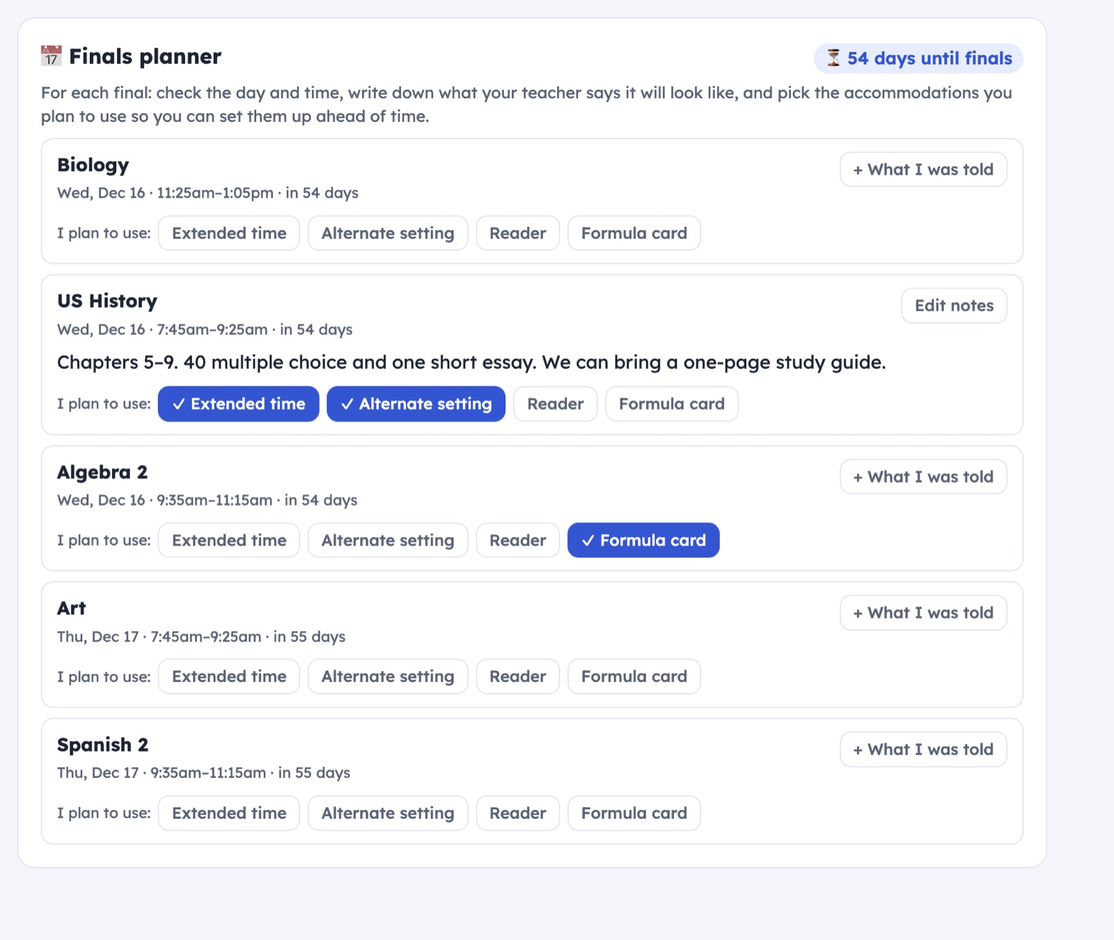
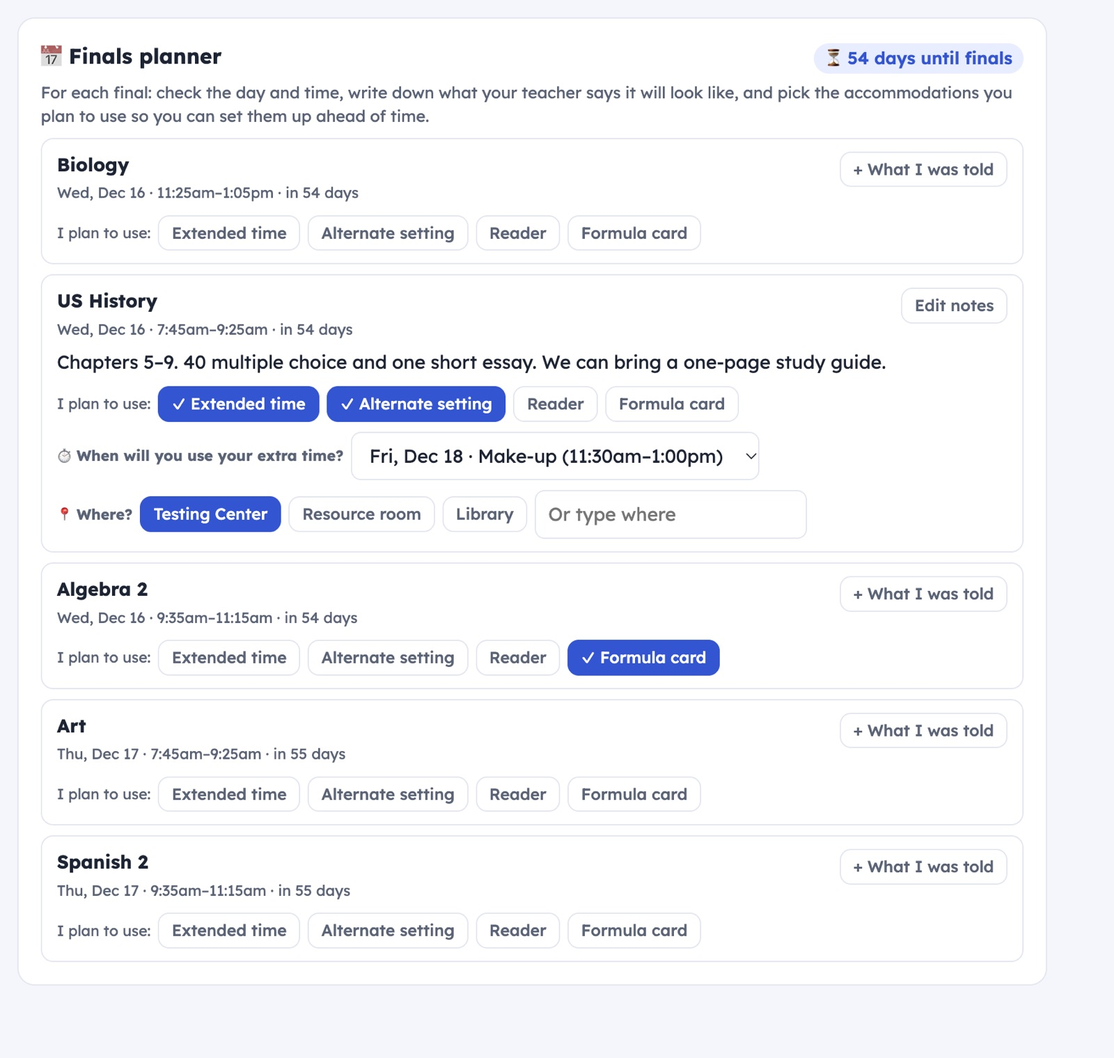
Resource Check-In showcase: Helping the teacher stay organized (test tracking, compiled finals accommodations); demo 1.92

diff --git a/resource/demo.html b/resource/demo.html
@@ -429,7 +429,7 @@ tr.lowrow td { background: var(--chip); border-bottom: 1px solid var(--line); }
    plan how they'll use resource time, and list upcoming tests. The teacher sees everyone.
    A Google Sheet + Apps Script web app. How to set it up: SETUP.md. */
 
-var VERSION = '1.91';
+var VERSION = '1.92';
 
 // Data tabs and their columns. Dates are stored as text (yyyy-mm-dd).
 var TABS = {
@@ -478,7 +478,7 @@ var TABS = {
   'Self-report checks': ['Week of', 'Email', 'Class', 'Said missing', 'Found missing (pasted page)', 'Checked', 'Match'],
   // the grade each student wants to finish the semester with, per class; and what each class said the final exam will be like
   'Grade goals': ['Email', 'Semester', 'Class', 'Goal (%)', 'Updated', 'Reason for the change'],
-  'Final exams': ['Email', 'Semester', 'Class', 'Exam date', 'What it will look like', 'Updated', 'Accommodations I plan to use'],
+  'Final exams': ['Email', 'Semester', 'Class', 'Exam date', 'What it will look like', 'Updated', 'Accommodations I plan to use', 'Extended time: when', 'Alternate setting: where'],
   // the school's final exam schedule (change it each semester): which period's final is when
   'Final exam schedule': ['Date', 'Start', 'End', 'Period (or Make-up)'],
   // the school year (change it each year): days with no school, finals days, and the first and last day; the grade check day moves around them
@@ -3409,18 +3409,24 @@ function goalHist_(email) {
 }
 // Student: what a class said the final exam will look like (and when). Blank text and date removes it.
 // accoms: the accommodations they plan to use on this final (from their list). All blank removes it.
-function api_saveFinal(cls, date, text, accoms) {
+// x (1.92): { when, where } for extended time (which final exam period) and an alternate setting (where); left out = keep what was saved
+var FIN_EXT = /extended|extra time/i, FIN_ALT = /alternat|separate setting|location/i;
+function api_saveFinal(cls, date, text, accoms, x) {
   var email = need_(), sem = semStart_(); cls = clean_(cls, 60); text = clean_(text, 1500);
   date = /^\d{4}-\d\d-\d\d$/.test(String(date)) ? date : '';
-  var acc = (accoms || []).slice(0, 10).map(function (a) { return clean_(a, 60); }).filter(String).join('; ');
+  var list = (accoms || []).slice(0, 10).map(function (a) { return clean_(a, 60); }).filter(String), acc = list.join('; ');
   return locked_(function () {
-    rewrite_('Final exams', function (r) { return !(low_(r[0]) === email && day_(r[1]) === sem && String(r[2]) === cls); }, text || date || acc ? [[email, sem, cls, date, text, stamp_(), acc]] : []);
+    var old = rows_('Final exams').filter(function (r) { return low_(r[0]) === email && day_(r[1]) === sem && String(r[2]) === cls; })[0] || [];
+    var when = x && x.when !== undefined ? clean_(x.when, 120) : String(old[7] || ''), where = x && x.where !== undefined ? clean_(x.where, 120) : String(old[8] || '');
+    if (!list.some(function (a) { return FIN_EXT.test(a); })) when = '';          // only with extended time / an alternate setting chosen
+    if (!list.some(function (a) { return FIN_ALT.test(a); })) where = '';
+    rewrite_('Final exams', function (r) { return !(low_(r[0]) === email && day_(r[1]) === sem && String(r[2]) === cls); }, text || date || acc ? [[email, sem, cls, date, text, stamp_(), acc, when, where]] : []);
     return finals_(email);
   });
 }
 function finals_(email) {
   var sem = semStart_(), o = {};
-  rows_('Final exams').forEach(function (r) { if (low_(r[0]) === email && day_(r[1]) === sem) o[String(r[2])] = { date: day_(r[3]), text: String(r[4] || ''), updated: String(r[5] || ''), accoms: String(r[6] || '').split('; ').filter(String) }; });
+  rows_('Final exams').forEach(function (r) { if (low_(r[0]) === email && day_(r[1]) === sem) o[String(r[2])] = { date: day_(r[3]), text: String(r[4] || ''), updated: String(r[5] || ''), accoms: String(r[6] || '').split('; ').filter(String), when: String(r[7] || ''), where: String(r[8] || '') }; });
   return o;
 }
 // Teacher: every student's final with accommodations planned, in exam order (for testing rooms and extended time).
@@ -3430,7 +3436,7 @@ function finalsAccoms_(names) {
   rows_('Final exams').forEach(function (r) {
     if (day_(r[1]) !== sem || !String(r[6] || '')) return;
     var e = low_(r[0]), cls = String(r[2]), p = per[e + '|' + cls] || '', slot = finalSlot_(p, sched);
-    out.push({ email: e, name: names[e] || e, cls: cls, period: p, date: (slot && slot.date) || day_(r[3]), start: slot ? slot.start : '', end: slot ? slot.end : '', accoms: String(r[6]).split('; ').filter(String) });
+    out.push({ email: e, name: names[e] || e, cls: cls, period: p, date: (slot && slot.date) || day_(r[3]), start: slot ? slot.start : '', end: slot ? slot.end : '', accoms: String(r[6]).split('; ').filter(String), when: String(r[7] || ''), where: String(r[8] || '') });
   });
   return out.sort(function (a, b) { return (a.date || '9') + a.start < (b.date || '9') + b.start ? -1 : 1; });
 }
@@ -3943,7 +3949,7 @@ function weekOf_(s) { var p = s.split('-'), dow = new Date(Date.UTC(+p[0], +p[1]
     g.setUser('ort123456@d204.lths.net');
     api_saveDayPlan('Finish the Ch. 6 worksheet for US History, then make flashcards for Thursday’s test');
     api_saveGradeGoals({ 'US History': 70, 'Algebra 2': 80, Biology: 80, 'Spanish 2': 90 });
-    api_saveFinal('US History', '', 'Chapters 5–9. 40 multiple choice and one short essay. We can bring a one-page study guide.', ['Extended time', 'Alternate setting']);
+    api_saveFinal('US History', '', 'Chapters 5–9. 40 multiple choice and one short essay. We can bring a one-page study guide.', ['Extended time', 'Alternate setting'], { when: 'Fri, Dec 18 · Make-up (11:30am–1:00pm)', where: 'Testing Center' });
     api_saveFinal('Algebra 2', '', '', ['Formula card']);
     g.setUser('smi513421@d204.lths.net');
     api_saveDayPlan('Study for the Geometry Unit 3 test');
@@ -4919,8 +4925,25 @@ function finalsCard() {
         '<button class="btn small" onclick="FIN_EDIT=' + x.k + ';drawCheckin()">' + (f.text ? 'Edit notes' : '+ What I was told') + '</button></div>' +
         (f.text ? '<p style="margin:6px 0 0;white-space:pre-wrap">' + esc(f.text) + '</p>' : '') +
         (accs.length ? '<div class="row" style="gap:6px;margin-top:8px;align-items:center"><span class="small" style="display:inline">I plan to use:</span>' + accs.map(function (a, ai) {
-          var on = f.accoms.indexOf(a) >= 0; return '<button class="btn small' + (on ? ' primary' : '') + '" onclick="finAcc(' + x.k + ',' + ai + ')">' + (on ? '✓ ' : '') + esc(a) + '</button>'; }).join('') + '</div>' : '') + '</div>';
+          var on = f.accoms.indexOf(a) >= 0; return '<button class="btn small' + (on ? ' primary' : '') + '" onclick="finAcc(' + x.k + ',' + ai + ')">' + (on ? '✓ ' : '') + esc(a) + '</button>'; }).join('') + '</div>' : '') + finExtras(x.k, f) + '</div>';
     }).join('') + '</div>';
+}
+// 1.92: extended time asks WHEN (the final exam periods), an alternate setting asks WHERE
+var FIN_EXT = /extended|extra time/i, FIN_ALT = /alternat|separate setting|location/i, FIN_WHERE = ['Testing Center', 'Resource room', 'Library'];
+function finWhenOpts() { return (B.finalSched || []).map(function (s) { return fmtDay(s.date) + ' · ' + (/^\d/.test(s.period) ? 'Period ' + s.period : s.period) + ' (' + s.start + '–' + s.end + ')'; }).concat(['Right after the exam, the same day', 'Not sure yet']); }
+function finExtras(k, f) {
+  var h = '';
+  if (f.accoms.some(function (a) { return FIN_EXT.test(a); })) h += '<div class="row" style="gap:6px;margin-top:8px;align-items:center"><span class="small" style="display:inline"><b>⏱ When will you use your extra time?</b></span><select style="max-width:330px" onchange="finExtra(' + k + ',\'when\',this.value)"><option value="">Pick a time</option>' +
+    finWhenOpts().map(function (o) { return '<option' + (o === f.when ? ' selected' : '') + '>' + esc(o) + '</option>'; }).join('') + (f.when && finWhenOpts().indexOf(f.when) < 0 ? '<option selected>' + esc(f.when) + '</option>' : '') + '</select></div>';
+  if (f.accoms.some(function (a) { return FIN_ALT.test(a); })) h += '<div class="row" style="gap:6px;margin-top:8px;align-items:center"><span class="small" style="display:inline"><b>📍 Where?</b></span>' +
+    FIN_WHERE.map(function (w) { return '<button class="btn small' + (f.where === w ? ' primary' : '') + '" onclick="finExtra(' + k + ',\'where\',\'' + w + '\')">' + w + '</button>'; }).join('') +
+    '<input type="text" maxlength="120" style="max-width:220px" placeholder="Or type where" value="' + esc(FIN_WHERE.indexOf(f.where) < 0 ? f.where || '' : '') + '" onchange="finExtra(' + k + ',\'where\',this.value.trim())"></div>';
+  return h;
+}
+function finExtra(k, field, v) {
+  var c = graded()[k], f = (D.finals || {})[c.name] || { date: '', text: '', accoms: [] }, x = { when: f.when || '', where: f.where || '' };
+  x[field] = v; f[field] = v; D.finals[c.name] = f; drawCheckin();
+  call('api_saveFinal', c.name, f.date, f.text, f.accoms, x).then(function (r) { D.finals = r; toast('Saved'); }).catch(oops);
 }
 function finSave(k) {
   var c = graded()[k], f = (D.finals || {})[c.name] || { accoms: [] };
@@ -6127,12 +6150,27 @@ function drawUpcoming() {
   }).join('') + '</tbody></table>' : '<div class="empty">No tests listed for the next two weeks.</div>';
   h += '</div>';
   var fa = TD.finalsAccoms || [];
-  if (fa.length) h += '<h2 style="margin-top:20px">Finals: accommodations students plan to use</h2><p class="sub">From each student’s Finals planner, in exam order. Use it to set up testing rooms and extended time.</p><div class="card"><table><thead><tr><th>When</th><th>Student</th><th>Class</th><th>Accommodations</th></tr></thead><tbody>' + fa.map(function (x) {
-    return '<tr class="click" onclick="openStudent(\'' + esc(x.email) + '\')"><td>' + (x.date ? fmtDay(x.date) : '—') + (x.start ? '<small>' + esc(x.start + '–' + x.end) + (x.period ? ' · period ' + esc(x.period) : '') + '</small>' : '') + '</td><td><div class="person">' + avatar(x.email, x.name) + '<b>' + esc(x.name) + '</b></div></td><td>' + esc(x.cls) + '</td><td>' + esc(x.accoms.join(', ')) + '</td></tr>';
-  }).join('') + '</tbody></table></div>';
+  if (fa.length) h += '<div class="row" style="margin-top:20px"><h2 class="grow" style="margin:0">Finals: accommodations students plan to use</h2><div class="seg">' + [['time', 'By exam time'], ['student', 'By student']].map(function (o) { return '<button class="' + (FA_BY === o[0] ? 'on' : '') + '" onclick="FA_BY=\'' + o[0] + '\';drawUpcoming()">' + o[1] + '</button>'; }).join('') + '</div><button class="btn small" onclick="faPrint()">🖨 Print this list</button></div>' +
+    '<p class="sub">From each student’s Finals planner. When they’ll use extended time, and where for an alternate setting.</p><div class="card">' + faTable(fa, true) + '</div>';
   $('main').innerHTML = h;
 }
 
+// the compiled finals accommodations list: by exam time (setting up rooms) or by student; printable (1.92)
+var FA_BY = 'time';
+function faRows(fa) { var l = fa.slice(); if (FA_BY === 'student') l.sort(function (a, b) { return a.name.localeCompare(b.name) || ((a.date || '9') + a.start < (b.date || '9') + b.start ? -1 : 1); }); return l; }
+function faTable(fa, click) {
+  return '<table><thead><tr>' + (FA_BY === 'student' ? '<th>Student</th><th>Final</th>' : '<th>Final</th><th>Student</th>') + '<th>Class</th><th>Accommodations</th><th>Extended time: when</th><th>Alternate setting: where</th></tr></thead><tbody>' + faRows(fa).map(function (x) {
+    var fin = (x.date ? fmtDay(x.date) : '—') + (x.start ? '<small>' + esc(x.start + '–' + x.end) + (x.period ? ' · period ' + esc(x.period) : '') + '</small>' : '');
+    var who = click ? '<div class="person">' + avatar(x.email, x.name) + '<b>' + esc(x.name) + '</b></div>' : '<b>' + esc(x.name) + '</b>';
+    return '<tr' + (click ? ' class="click" onclick="openStudent(\'' + esc(x.email) + '\')"' : '') + '>' + (FA_BY === 'student' ? '<td>' + who + '</td><td>' + fin + '</td>' : '<td>' + fin + '</td><td>' + who + '</td>') +
+      '<td>' + esc(x.cls) + '</td><td>' + esc(x.accoms.join(', ')) + '</td><td>' + (x.when ? esc(x.when) : x.accoms.some(function (a) { return FIN_EXT.test(a); }) ? '<span class="small" style="color:var(--warn)">not picked yet</span>' : '') + '</td><td>' + (x.where ? esc(x.where) : x.accoms.some(function (a) { return FIN_ALT.test(a); }) ? '<span class="small" style="color:var(--warn)">not picked yet</span>' : '') + '</td></tr>';
+  }).join('') + '</tbody></table>';
+}
+function faPrint() {
+  var w = printOpen();
+  printShow(w, '<h2 style="margin:0 0 4px">Final exams: accommodations students plan to use</h2><p style="margin:0 0 12px;color:#5b6476;font-size:13px">' + (FA_BY === 'student' ? 'By student' : 'By exam time') + ' · printed ' + fmtDay(B.today) + '</p>' +
+    '<style>table{border-collapse:collapse;width:100%;font-size:13px}th,td{border:1px solid #d9dee8;padding:6px 8px;text-align:left;vertical-align:top}th{background:#f1f4fa}small{display:block;color:#5b6476}</style>' + faTable(TD.finalsAccoms || [], false), 'Finals accommodations');
+}
 /* ---------- teacher: the app's Settings page (each teacher decides what students do and see) ---------- */
 var SETS = null, SET_CHG = {};
 var SET_LABELS = {

diff --git a/resource/practice.html b/resource/practice.html
@@ -429,7 +429,7 @@ tr.lowrow td { background: var(--chip); border-bottom: 1px solid var(--line); }
    plan how they'll use resource time, and list upcoming tests. The teacher sees everyone.
    A Google Sheet + Apps Script web app. How to set it up: SETUP.md. */
 
-var VERSION = '1.91';
+var VERSION = '1.92';
 
 // Data tabs and their columns. Dates are stored as text (yyyy-mm-dd).
 var TABS = {
@@ -478,7 +478,7 @@ var TABS = {
   'Self-report checks': ['Week of', 'Email', 'Class', 'Said missing', 'Found missing (pasted page)', 'Checked', 'Match'],
   // the grade each student wants to finish the semester with, per class; and what each class said the final exam will be like
   'Grade goals': ['Email', 'Semester', 'Class', 'Goal (%)', 'Updated', 'Reason for the change'],
-  'Final exams': ['Email', 'Semester', 'Class', 'Exam date', 'What it will look like', 'Updated', 'Accommodations I plan to use'],
+  'Final exams': ['Email', 'Semester', 'Class', 'Exam date', 'What it will look like', 'Updated', 'Accommodations I plan to use', 'Extended time: when', 'Alternate setting: where'],
   // the school's final exam schedule (change it each semester): which period's final is when
   'Final exam schedule': ['Date', 'Start', 'End', 'Period (or Make-up)'],
   // the school year (change it each year): days with no school, finals days, and the first and last day; the grade check day moves around them
@@ -3409,18 +3409,24 @@ function goalHist_(email) {
 }
 // Student: what a class said the final exam will look like (and when). Blank text and date removes it.
 // accoms: the accommodations they plan to use on this final (from their list). All blank removes it.
-function api_saveFinal(cls, date, text, accoms) {
+// x (1.92): { when, where } for extended time (which final exam period) and an alternate setting (where); left out = keep what was saved
+var FIN_EXT = /extended|extra time/i, FIN_ALT = /alternat|separate setting|location/i;
+function api_saveFinal(cls, date, text, accoms, x) {
   var email = need_(), sem = semStart_(); cls = clean_(cls, 60); text = clean_(text, 1500);
   date = /^\d{4}-\d\d-\d\d$/.test(String(date)) ? date : '';
-  var acc = (accoms || []).slice(0, 10).map(function (a) { return clean_(a, 60); }).filter(String).join('; ');
+  var list = (accoms || []).slice(0, 10).map(function (a) { return clean_(a, 60); }).filter(String), acc = list.join('; ');
   return locked_(function () {
-    rewrite_('Final exams', function (r) { return !(low_(r[0]) === email && day_(r[1]) === sem && String(r[2]) === cls); }, text || date || acc ? [[email, sem, cls, date, text, stamp_(), acc]] : []);
+    var old = rows_('Final exams').filter(function (r) { return low_(r[0]) === email && day_(r[1]) === sem && String(r[2]) === cls; })[0] || [];
+    var when = x && x.when !== undefined ? clean_(x.when, 120) : String(old[7] || ''), where = x && x.where !== undefined ? clean_(x.where, 120) : String(old[8] || '');
+    if (!list.some(function (a) { return FIN_EXT.test(a); })) when = '';          // only with extended time / an alternate setting chosen
+    if (!list.some(function (a) { return FIN_ALT.test(a); })) where = '';
+    rewrite_('Final exams', function (r) { return !(low_(r[0]) === email && day_(r[1]) === sem && String(r[2]) === cls); }, text || date || acc ? [[email, sem, cls, date, text, stamp_(), acc, when, where]] : []);
     return finals_(email);
   });
 }
 function finals_(email) {
   var sem = semStart_(), o = {};
-  rows_('Final exams').forEach(function (r) { if (low_(r[0]) === email && day_(r[1]) === sem) o[String(r[2])] = { date: day_(r[3]), text: String(r[4] || ''), updated: String(r[5] || ''), accoms: String(r[6] || '').split('; ').filter(String) }; });
+  rows_('Final exams').forEach(function (r) { if (low_(r[0]) === email && day_(r[1]) === sem) o[String(r[2])] = { date: day_(r[3]), text: String(r[4] || ''), updated: String(r[5] || ''), accoms: String(r[6] || '').split('; ').filter(String), when: String(r[7] || ''), where: String(r[8] || '') }; });
   return o;
 }
 // Teacher: every student's final with accommodations planned, in exam order (for testing rooms and extended time).
@@ -3430,7 +3436,7 @@ function finalsAccoms_(names) {
   rows_('Final exams').forEach(function (r) {
     if (day_(r[1]) !== sem || !String(r[6] || '')) return;
     var e = low_(r[0]), cls = String(r[2]), p = per[e + '|' + cls] || '', slot = finalSlot_(p, sched);
-    out.push({ email: e, name: names[e] || e, cls: cls, period: p, date: (slot && slot.date) || day_(r[3]), start: slot ? slot.start : '', end: slot ? slot.end : '', accoms: String(r[6]).split('; ').filter(String) });
+    out.push({ email: e, name: names[e] || e, cls: cls, period: p, date: (slot && slot.date) || day_(r[3]), start: slot ? slot.start : '', end: slot ? slot.end : '', accoms: String(r[6]).split('; ').filter(String), when: String(r[7] || ''), where: String(r[8] || '') });
   });
   return out.sort(function (a, b) { return (a.date || '9') + a.start < (b.date || '9') + b.start ? -1 : 1; });
 }
@@ -3943,7 +3949,7 @@ function weekOf_(s) { var p = s.split('-'), dow = new Date(Date.UTC(+p[0], +p[1]
     g.setUser('ort123456@d204.lths.net');
     api_saveDayPlan('Finish the Ch. 6 worksheet for US History, then make flashcards for Thursday’s test');
     api_saveGradeGoals({ 'US History': 70, 'Algebra 2': 80, Biology: 80, 'Spanish 2': 90 });
-    api_saveFinal('US History', '', 'Chapters 5–9. 40 multiple choice and one short essay. We can bring a one-page study guide.', ['Extended time', 'Alternate setting']);
+    api_saveFinal('US History', '', 'Chapters 5–9. 40 multiple choice and one short essay. We can bring a one-page study guide.', ['Extended time', 'Alternate setting'], { when: 'Fri, Dec 18 · Make-up (11:30am–1:00pm)', where: 'Testing Center' });
     api_saveFinal('Algebra 2', '', '', ['Formula card']);
     g.setUser('smi513421@d204.lths.net');
     api_saveDayPlan('Study for the Geometry Unit 3 test');
@@ -4919,8 +4925,25 @@ function finalsCard() {
         '<button class="btn small" onclick="FIN_EDIT=' + x.k + ';drawCheckin()">' + (f.text ? 'Edit notes' : '+ What I was told') + '</button></div>' +
         (f.text ? '<p style="margin:6px 0 0;white-space:pre-wrap">' + esc(f.text) + '</p>' : '') +
         (accs.length ? '<div class="row" style="gap:6px;margin-top:8px;align-items:center"><span class="small" style="display:inline">I plan to use:</span>' + accs.map(function (a, ai) {
-          var on = f.accoms.indexOf(a) >= 0; return '<button class="btn small' + (on ? ' primary' : '') + '" onclick="finAcc(' + x.k + ',' + ai + ')">' + (on ? '✓ ' : '') + esc(a) + '</button>'; }).join('') + '</div>' : '') + '</div>';
+          var on = f.accoms.indexOf(a) >= 0; return '<button class="btn small' + (on ? ' primary' : '') + '" onclick="finAcc(' + x.k + ',' + ai + ')">' + (on ? '✓ ' : '') + esc(a) + '</button>'; }).join('') + '</div>' : '') + finExtras(x.k, f) + '</div>';
     }).join('') + '</div>';
+}
+// 1.92: extended time asks WHEN (the final exam periods), an alternate setting asks WHERE
+var FIN_EXT = /extended|extra time/i, FIN_ALT = /alternat|separate setting|location/i, FIN_WHERE = ['Testing Center', 'Resource room', 'Library'];
+function finWhenOpts() { return (B.finalSched || []).map(function (s) { return fmtDay(s.date) + ' · ' + (/^\d/.test(s.period) ? 'Period ' + s.period : s.period) + ' (' + s.start + '–' + s.end + ')'; }).concat(['Right after the exam, the same day', 'Not sure yet']); }
+function finExtras(k, f) {
+  var h = '';
+  if (f.accoms.some(function (a) { return FIN_EXT.test(a); })) h += '<div class="row" style="gap:6px;margin-top:8px;align-items:center"><span class="small" style="display:inline"><b>⏱ When will you use your extra time?</b></span><select style="max-width:330px" onchange="finExtra(' + k + ',\'when\',this.value)"><option value="">Pick a time</option>' +
+    finWhenOpts().map(function (o) { return '<option' + (o === f.when ? ' selected' : '') + '>' + esc(o) + '</option>'; }).join('') + (f.when && finWhenOpts().indexOf(f.when) < 0 ? '<option selected>' + esc(f.when) + '</option>' : '') + '</select></div>';
+  if (f.accoms.some(function (a) { return FIN_ALT.test(a); })) h += '<div class="row" style="gap:6px;margin-top:8px;align-items:center"><span class="small" style="display:inline"><b>📍 Where?</b></span>' +
+    FIN_WHERE.map(function (w) { return '<button class="btn small' + (f.where === w ? ' primary' : '') + '" onclick="finExtra(' + k + ',\'where\',\'' + w + '\')">' + w + '</button>'; }).join('') +
+    '<input type="text" maxlength="120" style="max-width:220px" placeholder="Or type where" value="' + esc(FIN_WHERE.indexOf(f.where) < 0 ? f.where || '' : '') + '" onchange="finExtra(' + k + ',\'where\',this.value.trim())"></div>';
+  return h;
+}
+function finExtra(k, field, v) {
+  var c = graded()[k], f = (D.finals || {})[c.name] || { date: '', text: '', accoms: [] }, x = { when: f.when || '', where: f.where || '' };
+  x[field] = v; f[field] = v; D.finals[c.name] = f; drawCheckin();
+  call('api_saveFinal', c.name, f.date, f.text, f.accoms, x).then(function (r) { D.finals = r; toast('Saved'); }).catch(oops);
 }
 function finSave(k) {
   var c = graded()[k], f = (D.finals || {})[c.name] || { accoms: [] };
@@ -6127,12 +6150,27 @@ function drawUpcoming() {
   }).join('') + '</tbody></table>' : '<div class="empty">No tests listed for the next two weeks.</div>';
   h += '</div>';
   var fa = TD.finalsAccoms || [];
-  if (fa.length) h += '<h2 style="margin-top:20px">Finals: accommodations students plan to use</h2><p class="sub">From each student’s Finals planner, in exam order. Use it to set up testing rooms and extended time.</p><div class="card"><table><thead><tr><th>When</th><th>Student</th><th>Class</th><th>Accommodations</th></tr></thead><tbody>' + fa.map(function (x) {
-    return '<tr class="click" onclick="openStudent(\'' + esc(x.email) + '\')"><td>' + (x.date ? fmtDay(x.date) : '—') + (x.start ? '<small>' + esc(x.start + '–' + x.end) + (x.period ? ' · period ' + esc(x.period) : '') + '</small>' : '') + '</td><td><div class="person">' + avatar(x.email, x.name) + '<b>' + esc(x.name) + '</b></div></td><td>' + esc(x.cls) + '</td><td>' + esc(x.accoms.join(', ')) + '</td></tr>';
-  }).join('') + '</tbody></table></div>';
+  if (fa.length) h += '<div class="row" style="margin-top:20px"><h2 class="grow" style="margin:0">Finals: accommodations students plan to use</h2><div class="seg">' + [['time', 'By exam time'], ['student', 'By student']].map(function (o) { return '<button class="' + (FA_BY === o[0] ? 'on' : '') + '" onclick="FA_BY=\'' + o[0] + '\';drawUpcoming()">' + o[1] + '</button>'; }).join('') + '</div><button class="btn small" onclick="faPrint()">🖨 Print this list</button></div>' +
+    '<p class="sub">From each student’s Finals planner. When they’ll use extended time, and where for an alternate setting.</p><div class="card">' + faTable(fa, true) + '</div>';
   $('main').innerHTML = h;
 }
 
+// the compiled finals accommodations list: by exam time (setting up rooms) or by student; printable (1.92)
+var FA_BY = 'time';
+function faRows(fa) { var l = fa.slice(); if (FA_BY === 'student') l.sort(function (a, b) { return a.name.localeCompare(b.name) || ((a.date || '9') + a.start < (b.date || '9') + b.start ? -1 : 1); }); return l; }
+function faTable(fa, click) {
+  return '<table><thead><tr>' + (FA_BY === 'student' ? '<th>Student</th><th>Final</th>' : '<th>Final</th><th>Student</th>') + '<th>Class</th><th>Accommodations</th><th>Extended time: when</th><th>Alternate setting: where</th></tr></thead><tbody>' + faRows(fa).map(function (x) {
+    var fin = (x.date ? fmtDay(x.date) : '—') + (x.start ? '<small>' + esc(x.start + '–' + x.end) + (x.period ? ' · period ' + esc(x.period) : '') + '</small>' : '');
+    var who = click ? '<div class="person">' + avatar(x.email, x.name) + '<b>' + esc(x.name) + '</b></div>' : '<b>' + esc(x.name) + '</b>';
+    return '<tr' + (click ? ' class="click" onclick="openStudent(\'' + esc(x.email) + '\')"' : '') + '>' + (FA_BY === 'student' ? '<td>' + who + '</td><td>' + fin + '</td>' : '<td>' + fin + '</td><td>' + who + '</td>') +
+      '<td>' + esc(x.cls) + '</td><td>' + esc(x.accoms.join(', ')) + '</td><td>' + (x.when ? esc(x.when) : x.accoms.some(function (a) { return FIN_EXT.test(a); }) ? '<span class="small" style="color:var(--warn)">not picked yet</span>' : '') + '</td><td>' + (x.where ? esc(x.where) : x.accoms.some(function (a) { return FIN_ALT.test(a); }) ? '<span class="small" style="color:var(--warn)">not picked yet</span>' : '') + '</td></tr>';
+  }).join('') + '</tbody></table>';
+}
+function faPrint() {
+  var w = printOpen();
+  printShow(w, '<h2 style="margin:0 0 4px">Final exams: accommodations students plan to use</h2><p style="margin:0 0 12px;color:#5b6476;font-size:13px">' + (FA_BY === 'student' ? 'By student' : 'By exam time') + ' · printed ' + fmtDay(B.today) + '</p>' +
+    '<style>table{border-collapse:collapse;width:100%;font-size:13px}th,td{border:1px solid #d9dee8;padding:6px 8px;text-align:left;vertical-align:top}th{background:#f1f4fa}small{display:block;color:#5b6476}</style>' + faTable(TD.finalsAccoms || [], false), 'Finals accommodations');
+}
 /* ---------- teacher: the app's Settings page (each teacher decides what students do and see) ---------- */
 var SETS = null, SET_CHG = {};
 var SET_LABELS = {

diff --git a/resource/index.html b/resource/index.html
@@ -194,14 +194,6 @@ footer { padding-block: 48px 40px; color: var(--soft); font-size: .9rem; }
 
     <div class="feat">
       <div class="txt">
-        <h3>Finals planner</h3>
-        <p>A countdown to finals, each final with its day and time from the school’s exam schedule, notes on what the teacher said it will cover, and the accommodations the student plans to use on it.</p>
-      </div>
-      <figure class="shot"><img src="img/finals.jpg" alt="Finals planner with exam times, notes and planned accommodations" loading="lazy"></figure>
-    </div>
-
-    <div class="feat">
-      <div class="txt">
         <h3>Semester grade goals</h3>
         <p>A goal for every class, with “on track” or points to go. Students can change a goal any time, but have to write why, and every change is kept with its date.</p>
       </div>
@@ -279,15 +271,6 @@ footer { padding-block: 48px 40px; color: var(--soft); font-size: .9rem; }
 
     <div class="feat">
       <div class="txt">
-        <h3>Tests and access codes</h3>
-        <p>Students tell the resource teacher when they’re waiting for a test or have one in the folder. The teacher logs every test picked up from the mailbox and every emailed access code, with the date and time it arrived.</p>
-        <p>An access code stays hidden until the teacher releases it, then appears in a green box at the top of the student’s page. One tap marks the test taken.</p>
-      </div>
-      <figure class="shot"><img src="img/tcodes.jpg" alt="The Tests and access codes page: student requests, the mailbox form and tests waiting to be taken" loading="lazy"></figure>
-    </div>
-
-    <div class="feat">
-      <div class="txt">
         <h3>Case managers, with the same link</h3>
         <p>When a case manager opens the app, they see only the students who picked them as their case manager. One tap shows a student’s full progress report, with Print / save PDF and the month calendar.</p>
         <p>Nothing to set up: students choose their case manager on their first login.</p>
@@ -301,6 +284,40 @@ footer { padding-block: 48px 40px; color: var(--soft); font-size: .9rem; }
         <p>Four roll-out stages turn features on in steps: Grades, then Planning, then Retakes, then Goals. Every feature also has its own switch.</p>
       </div>
       <figure class="shot"><img src="img/settings.jpg" alt="Settings with roll-out stages" loading="lazy"></figure>
+    </div>
+  </section>
+
+  <section aria-labelledby="org">
+    <div class="sec-head"><div class="eyebrow">For the resource teacher</div><h2 id="org">Helping the teacher stay organized</h2></div>
+
+    <div class="feat">
+      <div class="txt">
+        <h3>Test collection and tracking</h3>
+        <p>Students tell the resource teacher when they’re waiting for a test or have one in the folder. The teacher logs every test picked up from the mailbox and every emailed access code, with the date and time it arrived.</p>
+        <p>An access code stays hidden until the teacher releases it, then appears in a green box at the top of the student’s page. One tap marks the test taken.</p>
+      </div>
+      <figure class="shot"><img src="img/tcodes.jpg" alt="The Tests and access codes page: student requests, the mailbox form and tests waiting to be taken" loading="lazy"></figure>
+    </div>
+
+    <div class="feat">
+      <div class="txt">
+        <h3>Finals accommodations, compiled for you</h3>
+        <p>In their finals planner, students tap the accommodations they plan to use on each final. Extended time asks <b>when</b> (the school’s final exam periods appear as choices), and an alternate setting asks <b>where</b>.</p>
+        <ul>
+          <li>The teacher gets one list of every student’s plans, sorted by exam time (to set up rooms) or by student</li>
+          <li>“Not picked yet” shows who still needs to decide</li>
+          <li>One click prints it</li>
+        </ul>
+      </div>
+      <figure class="shot"><img src="img/finlist.jpg" alt="A table of students' final exam accommodations with when and where" loading="lazy"><figcaption>The teacher’s list, by exam time.</figcaption></figure>
+    </div>
+
+    <div class="feat">
+      <div class="txt">
+        <h3>What the student sees</h3>
+        <p>Each final shows its day and time from the school’s exam schedule, notes on what the teacher said it will cover, and the accommodations the student plans to use.</p>
+      </div>
+      <figure class="shot"><img src="img/finals.jpg" alt="A student's finals planner with extended time set for the make-up period and the Testing Center as the setting" loading="lazy"></figure>
     </div>
   </section>
 
